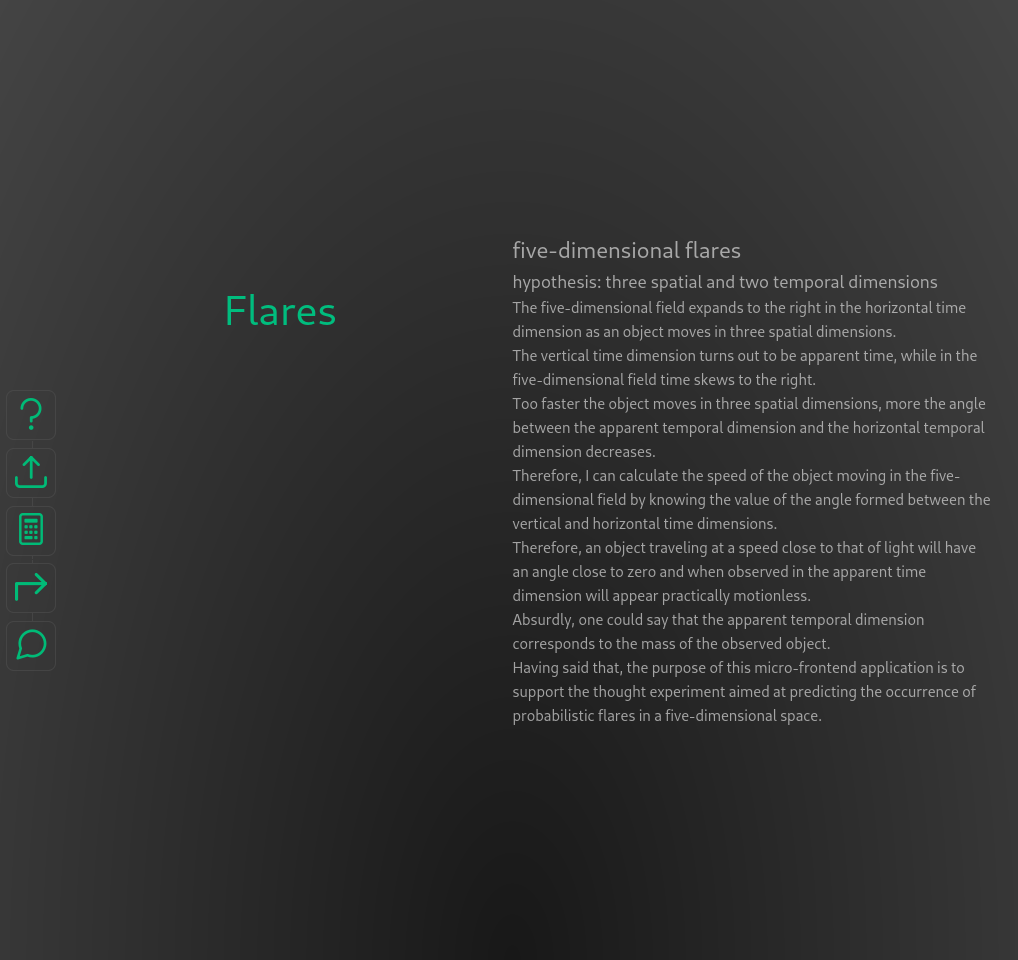
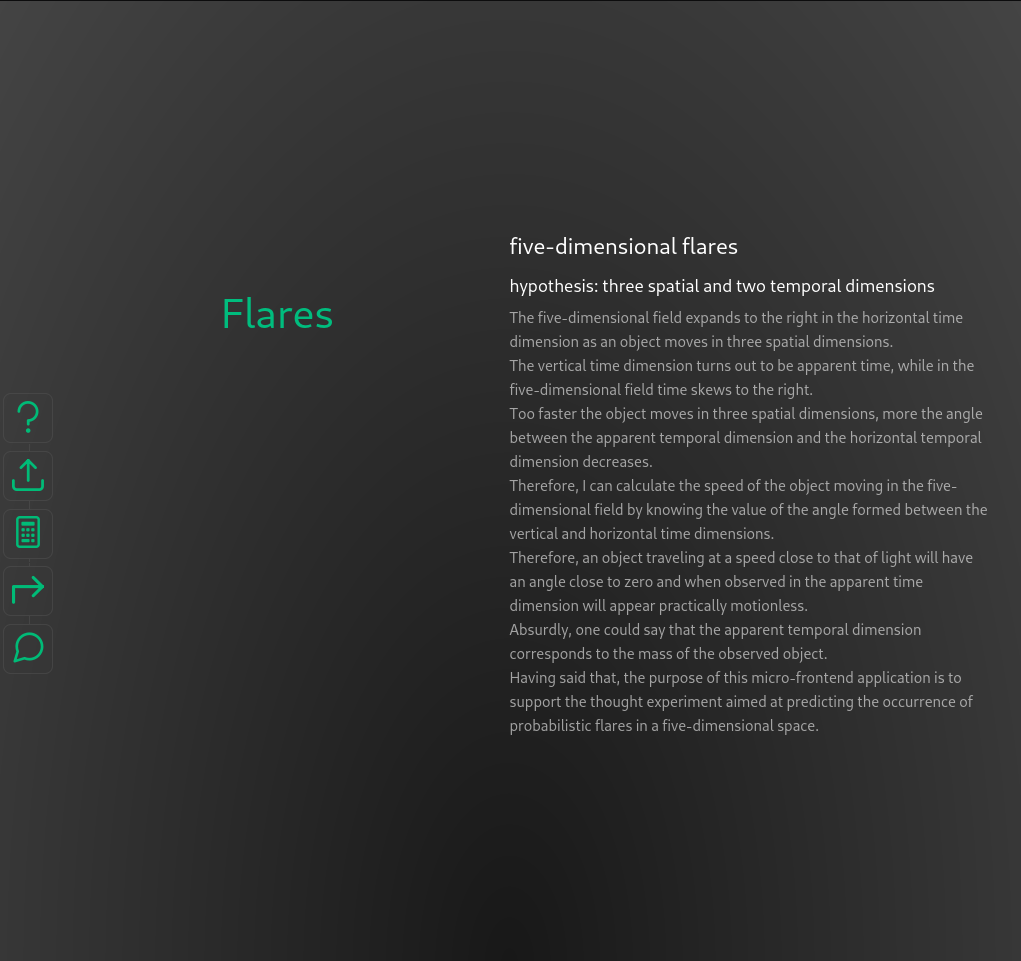
some graphical improvements

diff --git a/examples/likelihood/flares/src/views/HelpView.vue b/examples/likelihood/flares/src/views/HelpView.vue
@@ -35,6 +35,18 @@
 </template>
 
 <style>
+h1 {
+  font-weight: 500;
+  margin-bottom: 0.5rem;
+  color: var(--color-heading);
+}
+
+h3 {
+  font-weight: 500;
+  margin-bottom: 0.4rem;
+  color: var(--color-heading);
+}
+
 @media (min-width: 1024px) {
   .right-view {
     min-height: 100vh;

diff --git a/examples/likelihood/flares/src/views/PostView.vue b/examples/likelihood/flares/src/views/PostView.vue
@@ -10,6 +10,18 @@
 </template>
 
 <style>
+h1 {
+  font-weight: 500;
+  margin-bottom: 0.5rem;
+  color: var(--color-heading);
+}
+
+h3 {
+  font-weight: 500;
+  margin-bottom: 0.4rem;
+  color: var(--color-heading);
+}
+
 @media (min-width: 1024px) {
   .right-view {
     min-height: 100vh;

diff --git a/examples/likelihood/flares/src/views/UploadView.vue b/examples/likelihood/flares/src/views/UploadView.vue
@@ -10,6 +10,18 @@
 </template>
 
 <style>
+h1 {
+  font-weight: 500;
+  margin-bottom: 0.5rem;
+  color: var(--color-heading);
+}
+
+h3 {
+  font-weight: 500;
+  margin-bottom: 0.4rem;
+  color: var(--color-heading);
+}
+
 @media (min-width: 1024px) {
   .right-view {
     min-height: 100vh;

diff --git a/examples/likelihood/templates/src/views/HelpView.vue b/examples/likelihood/templates/src/views/HelpView.vue
@@ -10,6 +10,18 @@
 </template>
 
 <style>
+h1 {
+  font-weight: 500;
+  margin-bottom: 0.5rem;
+  color: var(--color-heading);
+}
+
+h3 {
+  font-weight: 500;
+  margin-bottom: 0.4rem;
+  color: var(--color-heading);
+}
+
 @media (min-width: 1024px) {
   .right-view {
     min-height: 100vh;

diff --git a/examples/likelihood/templates/src/views/PostView.vue b/examples/likelihood/templates/src/views/PostView.vue
@@ -10,6 +10,18 @@
 </template>
 
 <style>
+h1 {
+  font-weight: 500;
+  margin-bottom: 0.5rem;
+  color: var(--color-heading);
+}
+
+h3 {
+  font-weight: 500;
+  margin-bottom: 0.4rem;
+  color: var(--color-heading);
+}
+
 @media (min-width: 1024px) {
   .right-view {
     min-height: 100vh;

diff --git a/examples/likelihood/templates/src/views/UploadView.vue b/examples/likelihood/templates/src/views/UploadView.vue
@@ -10,6 +10,18 @@
 </template>
 
 <style>
+h1 {
+  font-weight: 500;
+  margin-bottom: 0.5rem;
+  color: var(--color-heading);
+}
+
+h3 {
+  font-weight: 500;
+  margin-bottom: 0.4rem;
+  color: var(--color-heading);
+}
+
 @media (min-width: 1024px) {
   .right-view {
     min-height: 100vh;

diff --git a/examples/likelihood/flares/src/views/EvaluateView.vue b/examples/likelihood/flares/src/views/EvaluateView.vue
@@ -9,6 +9,18 @@
 </template>
 
 <style>
+h1 {
+  font-weight: 500;
+  margin-bottom: 0.5rem;
+  color: var(--color-heading);
+}
+
+h3 {
+  font-weight: 500;
+  margin-bottom: 0.4rem;
+  color: var(--color-heading);
+}
+
 @media (min-width: 1024px) {
   .right-view {
     min-height: 100vh;

diff --git a/examples/likelihood/flares/src/views/FeedbackView.vue b/examples/likelihood/flares/src/views/FeedbackView.vue
@@ -9,6 +9,18 @@
 </template>
 
 <style>
+h1 {
+  font-weight: 500;
+  margin-bottom: 0.5rem;
+  color: var(--color-heading);
+}
+
+h3 {
+  font-weight: 500;
+  margin-bottom: 0.4rem;
+  color: var(--color-heading);
+}
+
 @media (min-width: 1024px) {
   .right-view {
     min-height: 100vh;

diff --git a/examples/likelihood/templates/src/views/EvaluateView.vue b/examples/likelihood/templates/src/views/EvaluateView.vue
@@ -9,6 +9,18 @@
 </template>
 
 <style>
+h1 {
+  font-weight: 500;
+  margin-bottom: 0.5rem;
+  color: var(--color-heading);
+}
+
+h3 {
+  font-weight: 500;
+  margin-bottom: 0.4rem;
+  color: var(--color-heading);
+}
+
 @media (min-width: 1024px) {
   .right-view {
     min-height: 100vh;

diff --git a/examples/likelihood/templates/src/views/FeedbackView.vue b/examples/likelihood/templates/src/views/FeedbackView.vue
@@ -9,6 +9,18 @@
 </template>
 
 <style>
+h1 {
+  font-weight: 500;
+  margin-bottom: 0.5rem;
+  color: var(--color-heading);
+}
+
+h3 {
+  font-weight: 500;
+  margin-bottom: 0.4rem;
+  color: var(--color-heading);
+}
+
 @media (min-width: 1024px) {
   .right-view {
     min-height: 100vh;
